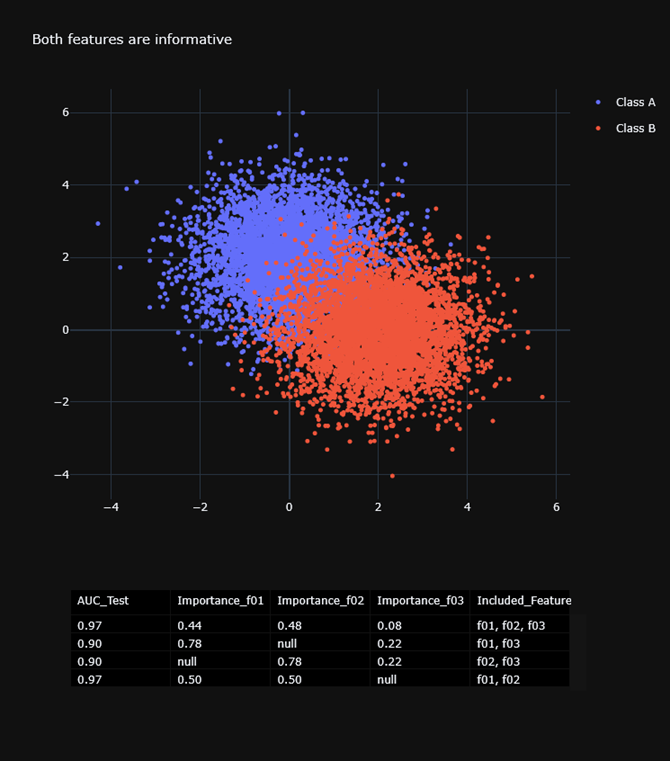
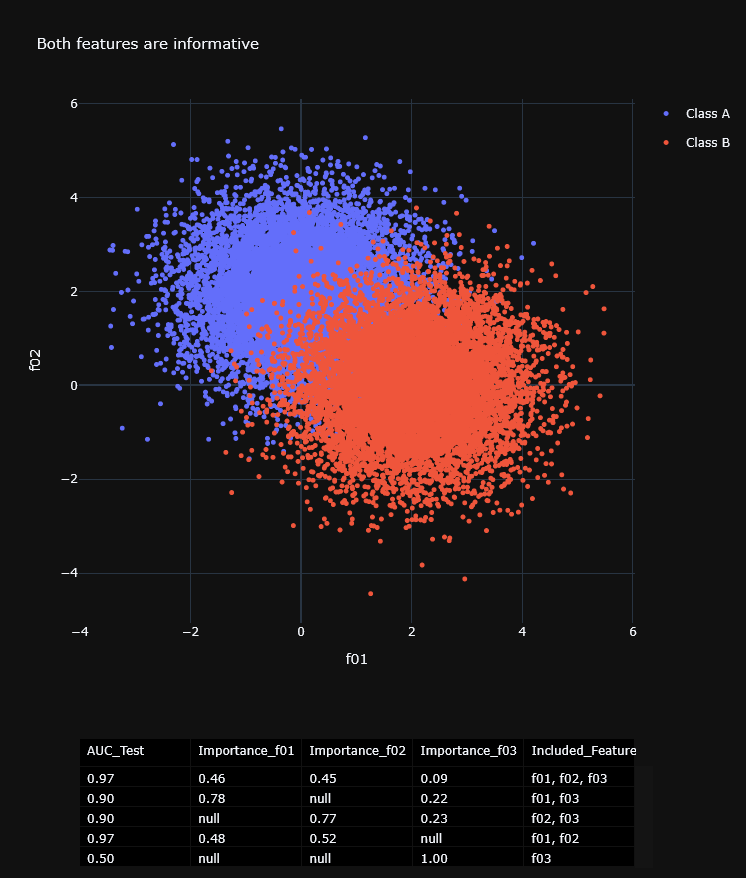
updated 3 figs for readme

diff --git a/main.py b/main.py
@@ -25,14 +25,14 @@ np.random.seed(seed=random_seed)
 
 scenarios_di = { 
     "Both features are informative" : {
-            'n1' : 10000, 'mu1' : [0,2] , 'std1' : [1,1], 'corr1' : 0.0,
-            'n2' : 10000, 'mu2' : [2,0] , 'std2' : [1,1], 'corr2' : 0.0,
-            }
+        'n1' : 10000, 'mu1' : [0,2] , 'std1' : [1,1], 'corr1' : 0.0,
+        'n2' : 10000, 'mu2' : [2,0] , 'std2' : [1,1], 'corr2' : 0.0,
+        }
     ,
     "Both features are informative and redundant" : {
-            'n1' : 10000, 'mu1' : [ 1.4, 1.4] , 'std1' : [1,1], 'corr1' : +0.98,
-            'n2' : 10000, 'mu2' : [-1.4,-1.4] , 'std2' : [1,1], 'corr2' : +0.98,
-            }
+        'n1' : 10000, 'mu1' : [ 1.4, 1.4] , 'std1' : [1,1], 'corr1' : +0.98,
+        'n2' : 10000, 'mu2' : [-1.4,-1.4] , 'std2' : [1,1], 'corr2' : +0.98,
+        }
     ,
     "Joint information from features needed - parallel" : {
         'n1' : 10000, 'mu1' : [-0.14,-0.14] , 'std1' : [1,1], 'corr1' : -0.98,
@@ -84,6 +84,7 @@ for k in scenarios_di:
         ["f01", "f03"],
         ["f02", "f03"],
         ["f01", "f02"],
+        ["f03"],
         ]
 
     # loop over feature sets and fit RFO models
@@ -99,7 +100,6 @@ for k in scenarios_di:
         y_pred = clf.predict_proba(X_test)[:,1]
         resu_auc = np.round(roc_auc_score(y_test, y_pred),2).item()
         resu_auc = "{:1.2f}".format(resu_auc)
-        # "{:1.2f}".format(456.67895) # check 
         # get gini-based feature importance
         resu_imp = (clf.feature_importances_).round(2).tolist()
         resu_imp = ["{:1.2f}".format(a) for a  in resu_imp]
@@ -114,7 +114,6 @@ for k in scenarios_di:
         # store in list 
         df_resu.append(df_t)
     df_resu = pd.concat(df_resu)
-
 
     # show table in a plotly figure 
     fig2 = go.Figure(data=[go.Table(
@@ -136,7 +135,7 @@ for k in scenarios_di:
     fig['layout']['yaxis']['title']='f02'
 
     _ = fig.update_layout(template="plotly_dark")
-    _ = fig.update_layout(autosize=False,width=750,height=850,)
+    _ = fig.update_layout(autosize=False,width=750,height=950,)
     _ = fig.update_layout(title_text=k,title_font_size=15)
     fig.show()
 

diff --git a/utils.py b/utils.py
@@ -70,3 +70,6 @@ if __name__ == "__main__":
     df = make_dataset(params = mvn_params) 
     df.head()
     df.shape
+
+    "{:1.2f}".format(456.67895) # check 
+
